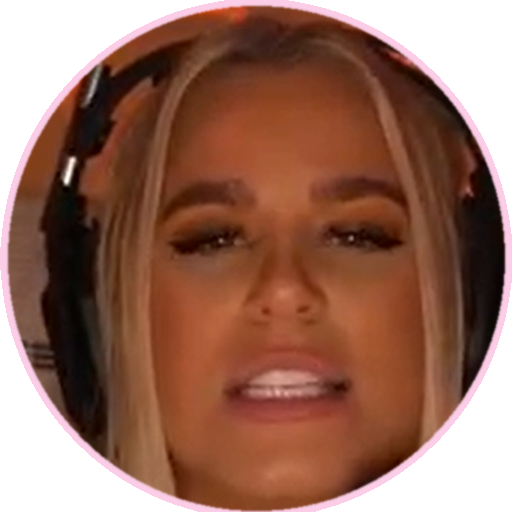
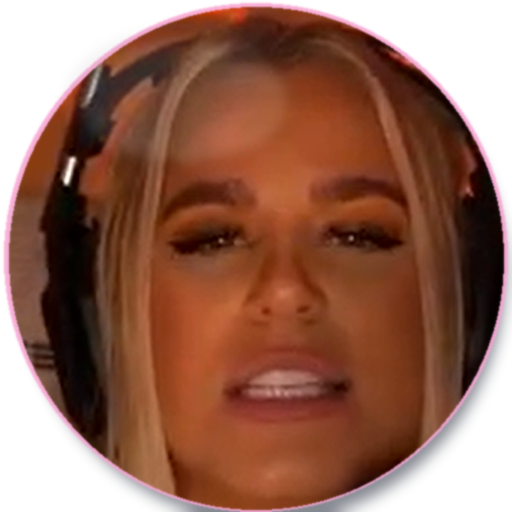
Release v0.2 animated PacBecca head

diff --git a/src/game/PacBeccaScene.ts b/src/game/PacBeccaScene.ts
@@ -1,6 +1,9 @@
 import Phaser from "phaser";
 import {
   AVATAR_ASSET_PATH,
+  AVATAR_FRAME_COUNT,
+  AVATAR_FRAME_SIZE,
+  AVATAR_SHEET_ASSET_PATH,
   BOARD_OFFSET,
   BURST_METER_MAX,
   GAME_TITLE,
@@ -38,6 +41,16 @@ interface MovingEntity {
   container: Phaser.GameObjects.Container;
 }
 
+interface PlayerEntity extends MovingEntity {
+  sprite: Phaser.GameObjects.Sprite;
+  ring: Phaser.GameObjects.Arc;
+  shadow: Phaser.GameObjects.Ellipse;
+  mouth: Phaser.GameObjects.Graphics;
+  gloss: Phaser.GameObjects.Arc;
+  chompTimeMs: number;
+  lastFacing: Exclude<Direction, "none">;
+}
+
 interface GhostFaceParts {
   body: Phaser.GameObjects.Arc;
   shine: Phaser.GameObjects.Arc;
@@ -65,7 +78,7 @@ export class PacBeccaScene extends Phaser.Scene {
   private ghostCombo = 0;
   private maze!: MazeModel;
   private level!: LevelConfig;
-  private player!: MovingEntity;
+  private player!: PlayerEntity;
   private ghosts: GhostEntity[] = [];
   private pickups = new Map<string, Phaser.GameObjects.GameObject>();
   private desiredDirection: Direction = "none";
@@ -97,6 +110,10 @@ export class PacBeccaScene extends Phaser.Scene {
 
   preload(): void {
     this.load.image("becca-head", AVATAR_ASSET_PATH);
+    this.load.spritesheet("becca-head-sheet", AVATAR_SHEET_ASSET_PATH, {
+      frameWidth: AVATAR_FRAME_SIZE,
+      frameHeight: AVATAR_FRAME_SIZE
+    });
   }
 
   create(): void {
@@ -301,12 +318,21 @@ export class PacBeccaScene extends Phaser.Scene {
     return this.add.container(world.x, world.y, [body, shine, label]);
   }
 
-  private createPlayer(): MovingEntity {
+  private createPlayer(): PlayerEntity {
     const start = this.maze.playerStart;
     const world = toWorld(start, BOARD_OFFSET);
-    const sprite = this.add.image(0, 0, "becca-head").setDisplaySize(28, 28);
-    const ring = this.add.circle(0, 0, 16, 0xffffff, 0).setStrokeStyle(3, 0xf9a8d4, 0.9);
-    const container = this.add.container(world.x, world.y, [ring, sprite]);
+    const shadow = this.add.ellipse(2, 9, 30, 11, 0x050712, 0.42);
+    const ring = this.add.circle(0, 0, 17, 0xffffff, 0).setStrokeStyle(3, 0xf9a8d4, 0.95);
+    const sprite = this.add.sprite(0, -2, "becca-head-sheet", 5).setDisplaySize(34, 34);
+    const gloss = this.add.circle(-6, -9, 5, 0xffffff, 0.2).setScale(1.55, 0.7);
+    const mouth = this.add.graphics();
+    const container = this.add.container(world.x, world.y, [
+      shadow,
+      ring,
+      sprite,
+      gloss,
+      mouth
+    ]);
     container.setDepth(20);
     return {
       tile: start,
@@ -314,7 +340,14 @@ export class PacBeccaScene extends Phaser.Scene {
       toTile: start,
       direction: "none",
       progress: 1,
-      container
+      container,
+      sprite,
+      ring,
+      shadow,
+      mouth,
+      gloss,
+      chompTimeMs: 0,
+      lastFacing: "right"
     };
   }
 
@@ -426,6 +459,7 @@ export class PacBeccaScene extends Phaser.Scene {
       () => this.choosePlayerDirection()
     );
     this.consumePickup();
+    this.updatePlayerAppearance(delta);
   }
 
   private choosePlayerDirection(): Direction {
@@ -545,6 +579,86 @@ export class PacBeccaScene extends Phaser.Scene {
     );
   }
 
+  private updatePlayerAppearance(delta: number): void {
+    const moving = this.player.direction !== "none";
+    if (moving) {
+      this.player.lastFacing = this.player.direction as Exclude<Direction, "none">;
+      this.player.chompTimeMs += delta;
+    } else {
+      this.player.chompTimeMs = Math.max(0, this.player.chompTimeMs - delta * 0.5);
+    }
+
+    const frameSequence = [5, 2, 1, 0, 4, 3, 4, 0, 1, 2];
+    const frameIndex = moving
+      ? frameSequence[
+          Math.floor(this.player.chompTimeMs / 95) % frameSequence.length
+        ] % AVATAR_FRAME_COUNT
+      : 5;
+    this.player.sprite.setFrame(frameIndex);
+
+    const phase = (this.player.chompTimeMs % 300) / 300;
+    const openAmount = moving ? Math.sin(phase * Math.PI) : 0;
+    const bob = moving ? Math.sin(this.player.chompTimeMs / 72) * 1.2 : 0;
+    const lean = {
+      up: 0,
+      down: 0,
+      left: -8,
+      right: 8
+    }[this.player.lastFacing];
+
+    this.player.sprite.setPosition(0, -2 + bob);
+    this.player.sprite.setAngle(lean);
+    this.player.gloss.setPosition(-6, -10 + bob * 0.45);
+    this.player.ring.setScale(1 + openAmount * 0.035, 1 - openAmount * 0.02);
+    this.player.shadow.setScale(1 + openAmount * 0.18, 0.92 - openAmount * 0.04);
+    this.player.shadow.setAlpha(0.34 + openAmount * 0.16);
+    this.drawPlayerMouth(openAmount);
+  }
+
+  private drawPlayerMouth(openAmount: number): void {
+    this.player.mouth.clear();
+    if (openAmount <= 0.06) {
+      return;
+    }
+
+    const directionAngle = {
+      right: 0,
+      down: Math.PI / 2,
+      left: Math.PI,
+      up: -Math.PI / 2
+    }[this.player.lastFacing];
+    const radius = 21;
+    const halfAngle = 0.12 + openAmount * 0.72;
+
+    this.player.mouth.fillStyle(0x070711, 0.96);
+    this.player.mouth.beginPath();
+    this.player.mouth.moveTo(0, -2);
+    this.player.mouth.arc(
+      0,
+      -2,
+      radius,
+      directionAngle - halfAngle,
+      directionAngle + halfAngle,
+      false
+    );
+    this.player.mouth.closePath();
+    this.player.mouth.fillPath();
+
+    this.player.mouth.lineStyle(2, 0xf9a8d4, 0.75);
+    this.player.mouth.beginPath();
+    this.player.mouth.moveTo(0, -2);
+    this.player.mouth.arc(
+      0,
+      -2,
+      radius,
+      directionAngle - halfAngle,
+      directionAngle + halfAngle,
+      false
+    );
+    this.player.mouth.closePath();
+    this.player.mouth.strokePath();
+  }
+
   private consumePickup(): void {
     const key = keyOf(this.player.tile);
     const pickup = this.maze.pickups.get(key);
@@ -657,6 +771,10 @@ export class PacBeccaScene extends Phaser.Scene {
     this.player.toTile = this.maze.playerStart;
     this.player.direction = "none";
     this.player.progress = 1;
+    this.player.lastFacing = "right";
+    this.player.chompTimeMs = 0;
+    this.player.sprite.setFrame(5);
+    this.player.mouth.clear();
     this.placeEntity(this.player, this.player.tile);
 
     this.ghosts.forEach((ghost) => {

diff --git a/src/game/config.ts b/src/game/config.ts
@@ -2,6 +2,9 @@ import { GhostConfig, GridPoint, LevelConfig } from "./types";
 
 export const GAME_TITLE = "PacBecca";
 export const AVATAR_ASSET_PATH = "/assets/becca-head.png";
+export const AVATAR_SHEET_ASSET_PATH = "/assets/becca-head-sheet.png";
+export const AVATAR_FRAME_SIZE = 512;
+export const AVATAR_FRAME_COUNT = 6;
 export const BOARD_OFFSET: GridPoint = { x: 32, y: 64 };
 export const BURST_METER_MAX = 100;
 

diff --git a/CHANGELOG.md b/CHANGELOG.md
@@ -1,7 +1,9 @@
 # Changelog
 
-## Unreleased
+## 0.2.0 - 2026-07-06
 
+- Added a six-frame Becca sprite sheet built from all supplied Snagit references.
+- Added faux-3D player head motion and a direction-aware chomping mouth.
 - Replaced the placeholder Becca avatar with a transparent PNG cropped from the supplied Snagit images.
 - Added clearer ghost facing details with directional eyes and front markers.
 - Renamed and expanded the ghost roster to Frosty, Megasen, Aspyn, Smeag, and Captain.

diff --git a/README.md b/README.md
@@ -16,10 +16,11 @@ Open the local URL Vite prints, usually `http://127.0.0.1:5173/`.
 - Arrow keys or WASD: move Becca
 - Space: use Becca Burst when the meter is full
 - Enter: restart after game over or victory
+- Becca's head chomps in the direction of movement while she clears pickups.
 
 ## Becca Head Asset
 
-The player avatar is loaded from `public/assets/becca-head.png`. It was cropped from the supplied Snagit reference images into a transparent game-ready face icon.
+The player avatar uses `public/assets/becca-head-sheet.png`, a six-frame transparent sprite sheet built from the supplied Snagit reference images. `public/assets/becca-head.png` remains as the single-frame fallback/preview.
 
 ## Current Game Rules
 

diff --git a/docs/GAME_DESIGN.md b/docs/GAME_DESIGN.md
@@ -12,6 +12,7 @@ PacBecca is a bright, fast, personal maze-chase game where Becca clears 10 theme
 - Ten level configs that scale speed, color, and vulnerability timing.
 - Five ghosts with named personalities.
 - Yellow power cans with blue writing.
+- Faux-3D Becca head animation with a direction-aware chomping mouth.
 - Replaceable Becca head image.
 
 ## Level Set
@@ -37,4 +38,4 @@ PacBecca is a bright, fast, personal maze-chase game where Becca clears 10 theme
 
 ## Asset Direction
 
-The current Becca head uses a transparent PNG cropped from the supplied Snagit reference images. Future polish can make additional sprite variants for open-mouth, powered-up, or celebration states.
+The current Becca head uses a transparent sprite sheet cropped from all supplied Snagit reference images. The game draws the open/close mouth live so the swallow animation can face the movement direction.